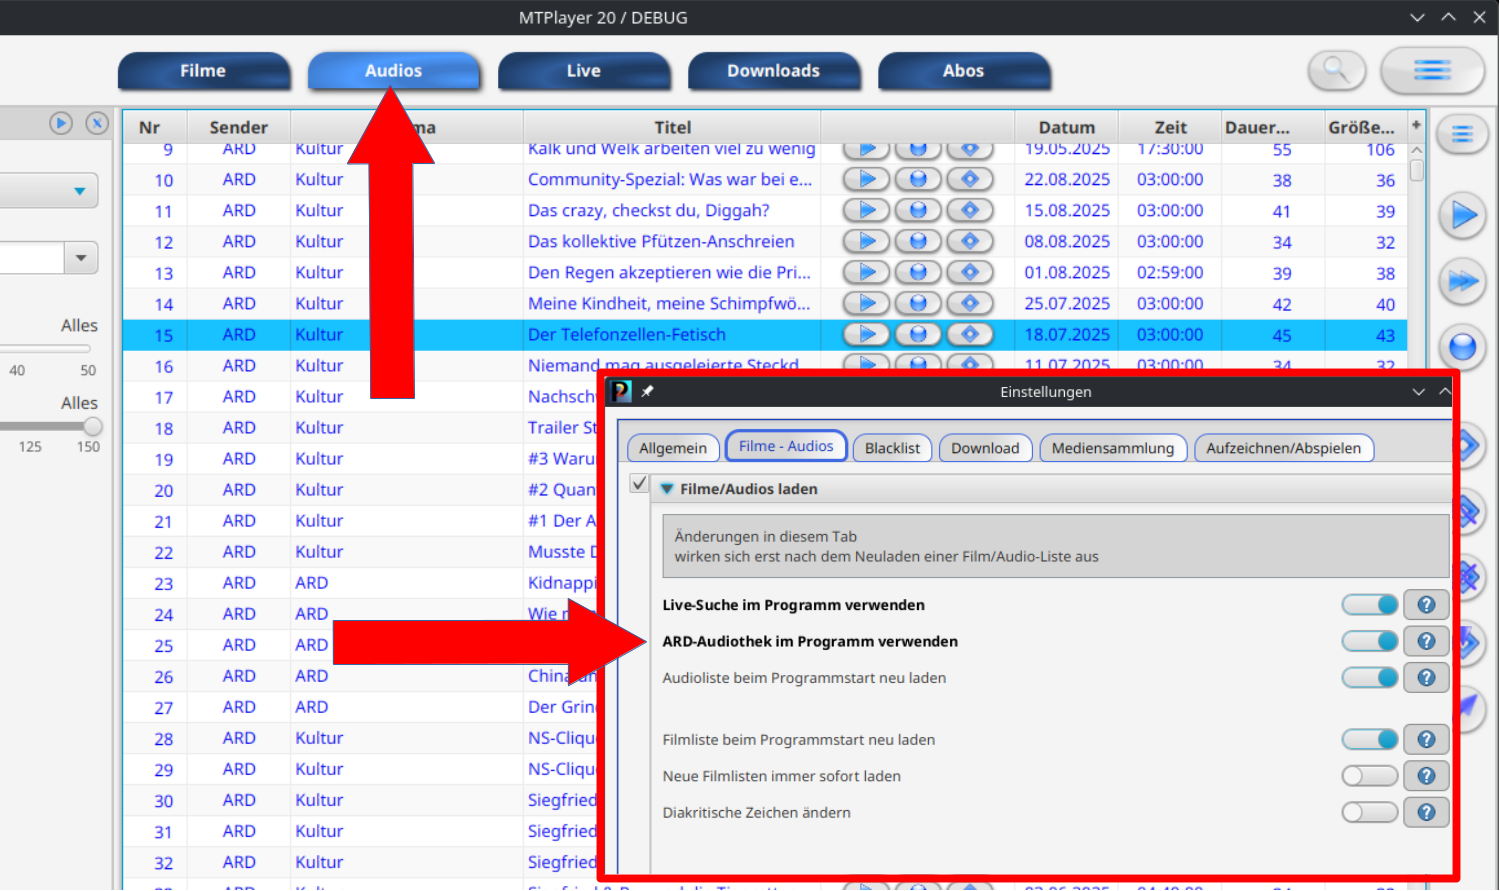
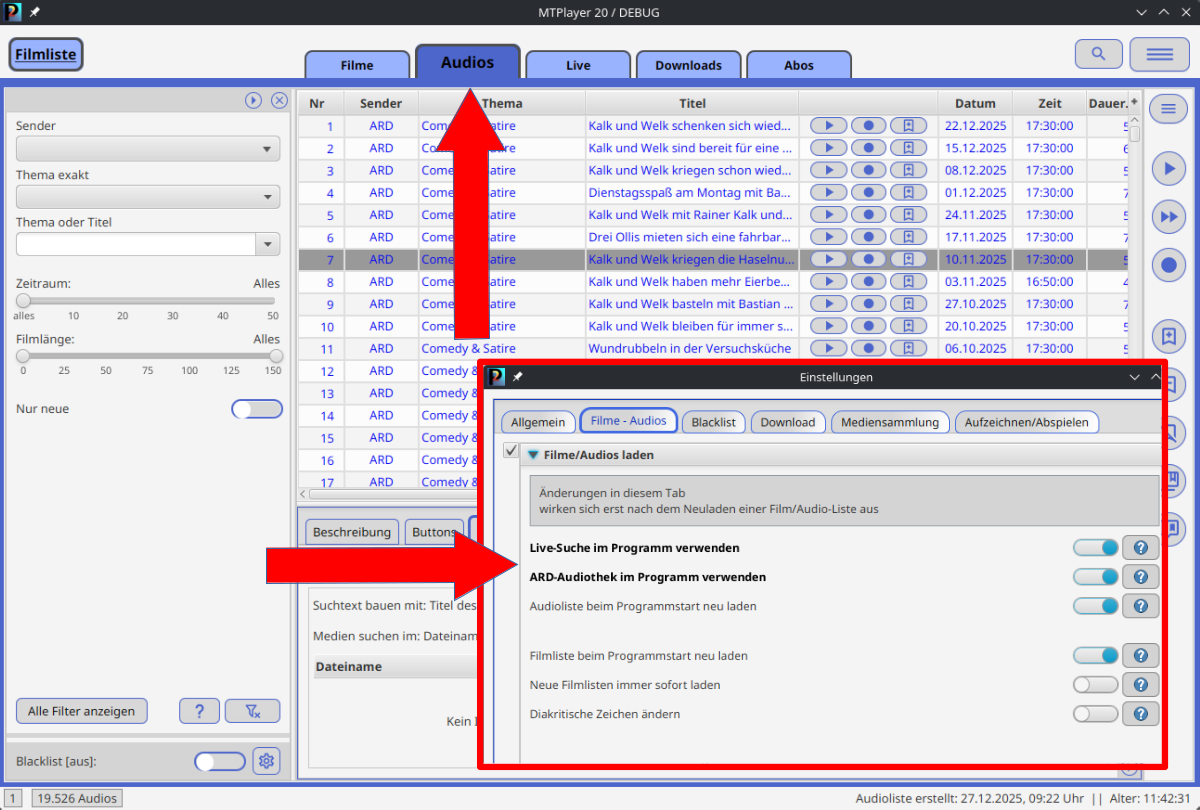
whatsNew dialog

diff --git a/src/main/resources/de/p2tools/mtplayer/css/pFuncTitleBar.css b/src/main/resources/de/p2tools/mtplayer/css/pFuncTitleBar.css
@@ -211,5 +211,5 @@
 
 .splitPaneTab{
     -fx-border-color: -pTitleBarSelColor;
-    -fx-border-width: 10 5 5 5;
+    -fx-border-width: 12 5 5 5;
 }

diff --git a/src/main/java/de/p2tools/mtplayer/controller/update/WhatsNewList.java b/src/main/java/de/p2tools/mtplayer/controller/update/WhatsNewList.java
@@ -42,7 +42,7 @@ public class WhatsNewList extends ArrayList<WhatsNewInfo> {
                 "Die Bookmarks können in einem eigenen Dialog " +
                         "angezeigt werden. Dort können die Filme auch " +
                         "angesehen und gespeichert werden. Es können auch Kommentare " +
-                        "zu den Bookmarks hinzugefügt werden.", 100);
+                        "zu den Bookmarks hinzugefügt werden.", 80);
         add(whatsNewInfo);
 
         whatsNewInfo = new WhatsNewInfo(LocalDate.of(2025, 7, 29),
@@ -52,7 +52,7 @@ public class WhatsNewList extends ArrayList<WhatsNewInfo> {
                 "Im Tab Filme kann ein einfacher Filter " +
                         "angezeigt werden. Er enthält nur das nötigste und ist " +
                         "übersichtlicher. Umschalten lässt sich das " +
-                        "im Film-Menü->Einfacher Filter.", 100);
+                        "im Film-Menü->Einfacher Filter.", 80);
         add(whatsNewInfo);
 
         whatsNewInfo = new WhatsNewInfo(LocalDate.of(2025, 8, 25),
@@ -64,17 +64,30 @@ public class WhatsNewList extends ArrayList<WhatsNewInfo> {
                         "abgespielt und aufgezeichnet werden. Auch Abos lassen sich " +
                         "anlegen.\n" +
                         "Wer die Audiothek nicht verwenden will, kann sie in den Einstellungen " +
-                        "abschalten.\n" +
-                        "Wenns Vorschläge dazu gibt, gerne per Mail oder im Forum.", 140);
+                        "abschalten.", 100);
         add(whatsNewInfo);
 
         whatsNewInfo = new WhatsNewInfo(LocalDate.of(2025, 10, 11),
-                "",
+                "/de/p2tools/mtplayer/res/whatsnew/whatsNew_filter-vorschlag.png",
                 "Filtervorschläge",
                 "In den Textfiltern (Filme/Audios) kann mit einem Doppelklick " +
                         "ein Filtervorschlag eingefügt werden. Die Vorschläge kann man in " +
                         "den \"Einstellungen->Filter\" vorgeben. Die Funktion kann dort auch " +
-                        "abgeschaltet werden.", 100);
+                        "abgeschaltet werden.", 80);
         add(whatsNewInfo);
+
+
+        whatsNewInfo = new WhatsNewInfo(LocalDate.of(2025, 12, 27),
+                "/de/p2tools/mtplayer/res/whatsnew/whatsNew_icon_set.png",
+
+                "Iconset",
+                "Das Programm hat ein neues Iconset, die Icons sind jetzt Vektorgrafiken. " +
+                        "Der Vorteil ist, dass diese verlustfrei skaliert werden können. " +
+                        "Weiter können sie beliebig eingefärbt werden. Es wurde auch das komplette " +
+                        "Erscheinungsbild der Programmoberfläche aktualisiert und die " +
+                        "Programmoberfläche lässt sich nach dem eigenem Gusto, farblich gestalten.", 120);
+        add(whatsNewInfo);
+
+
     }
 }
